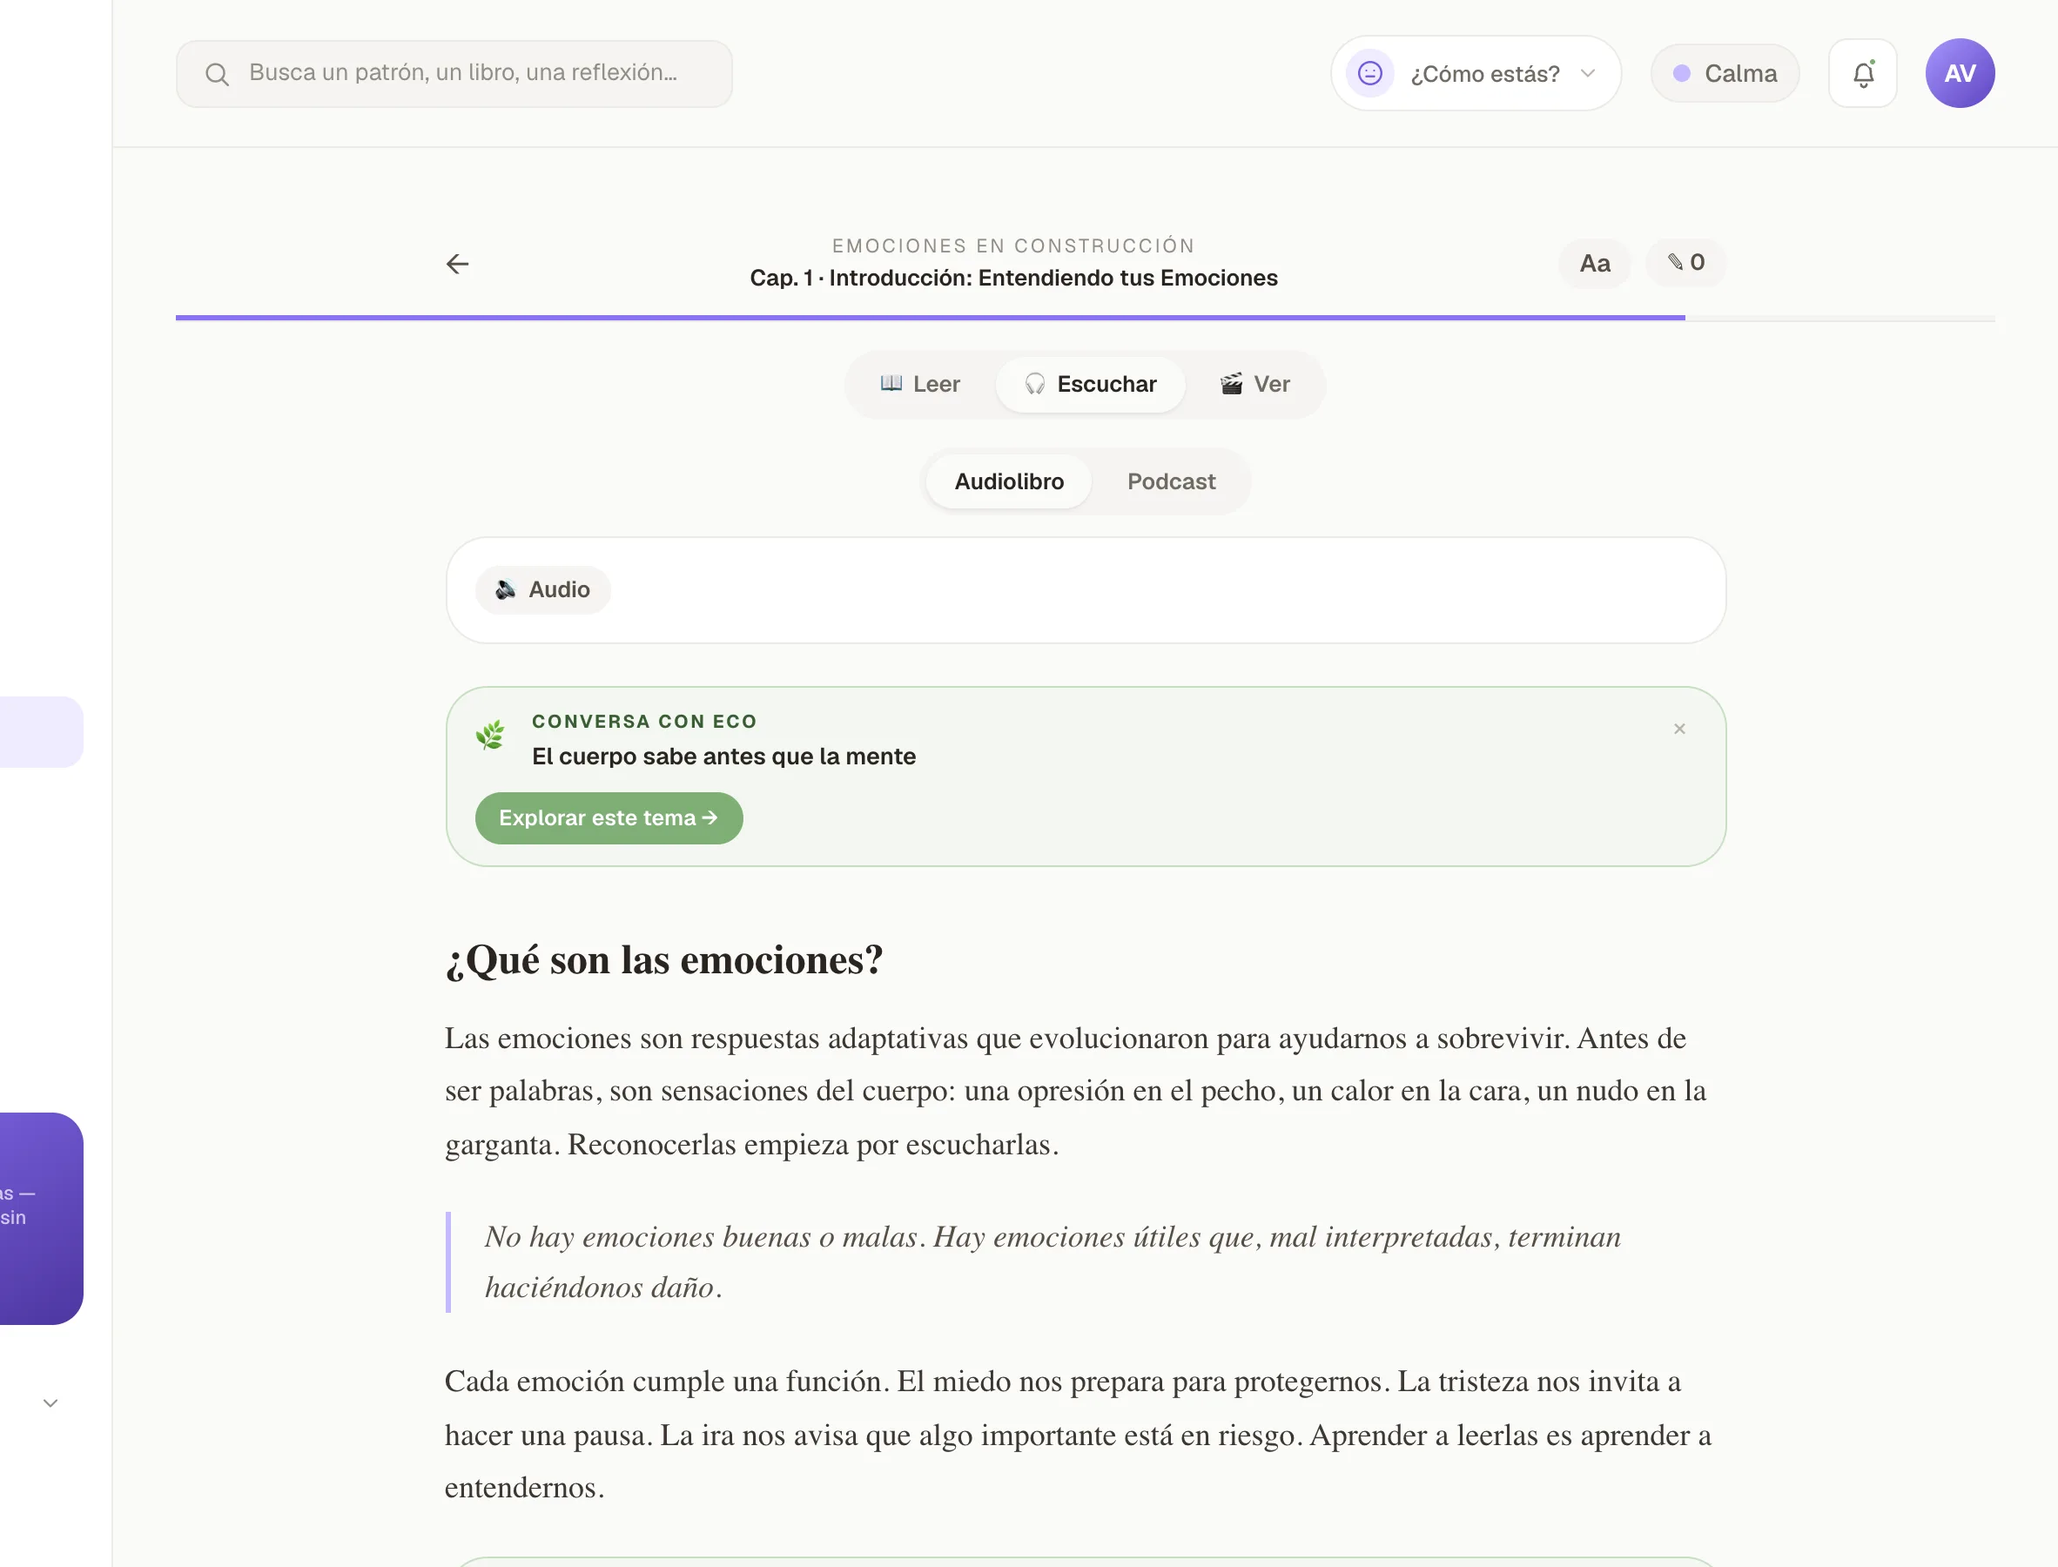
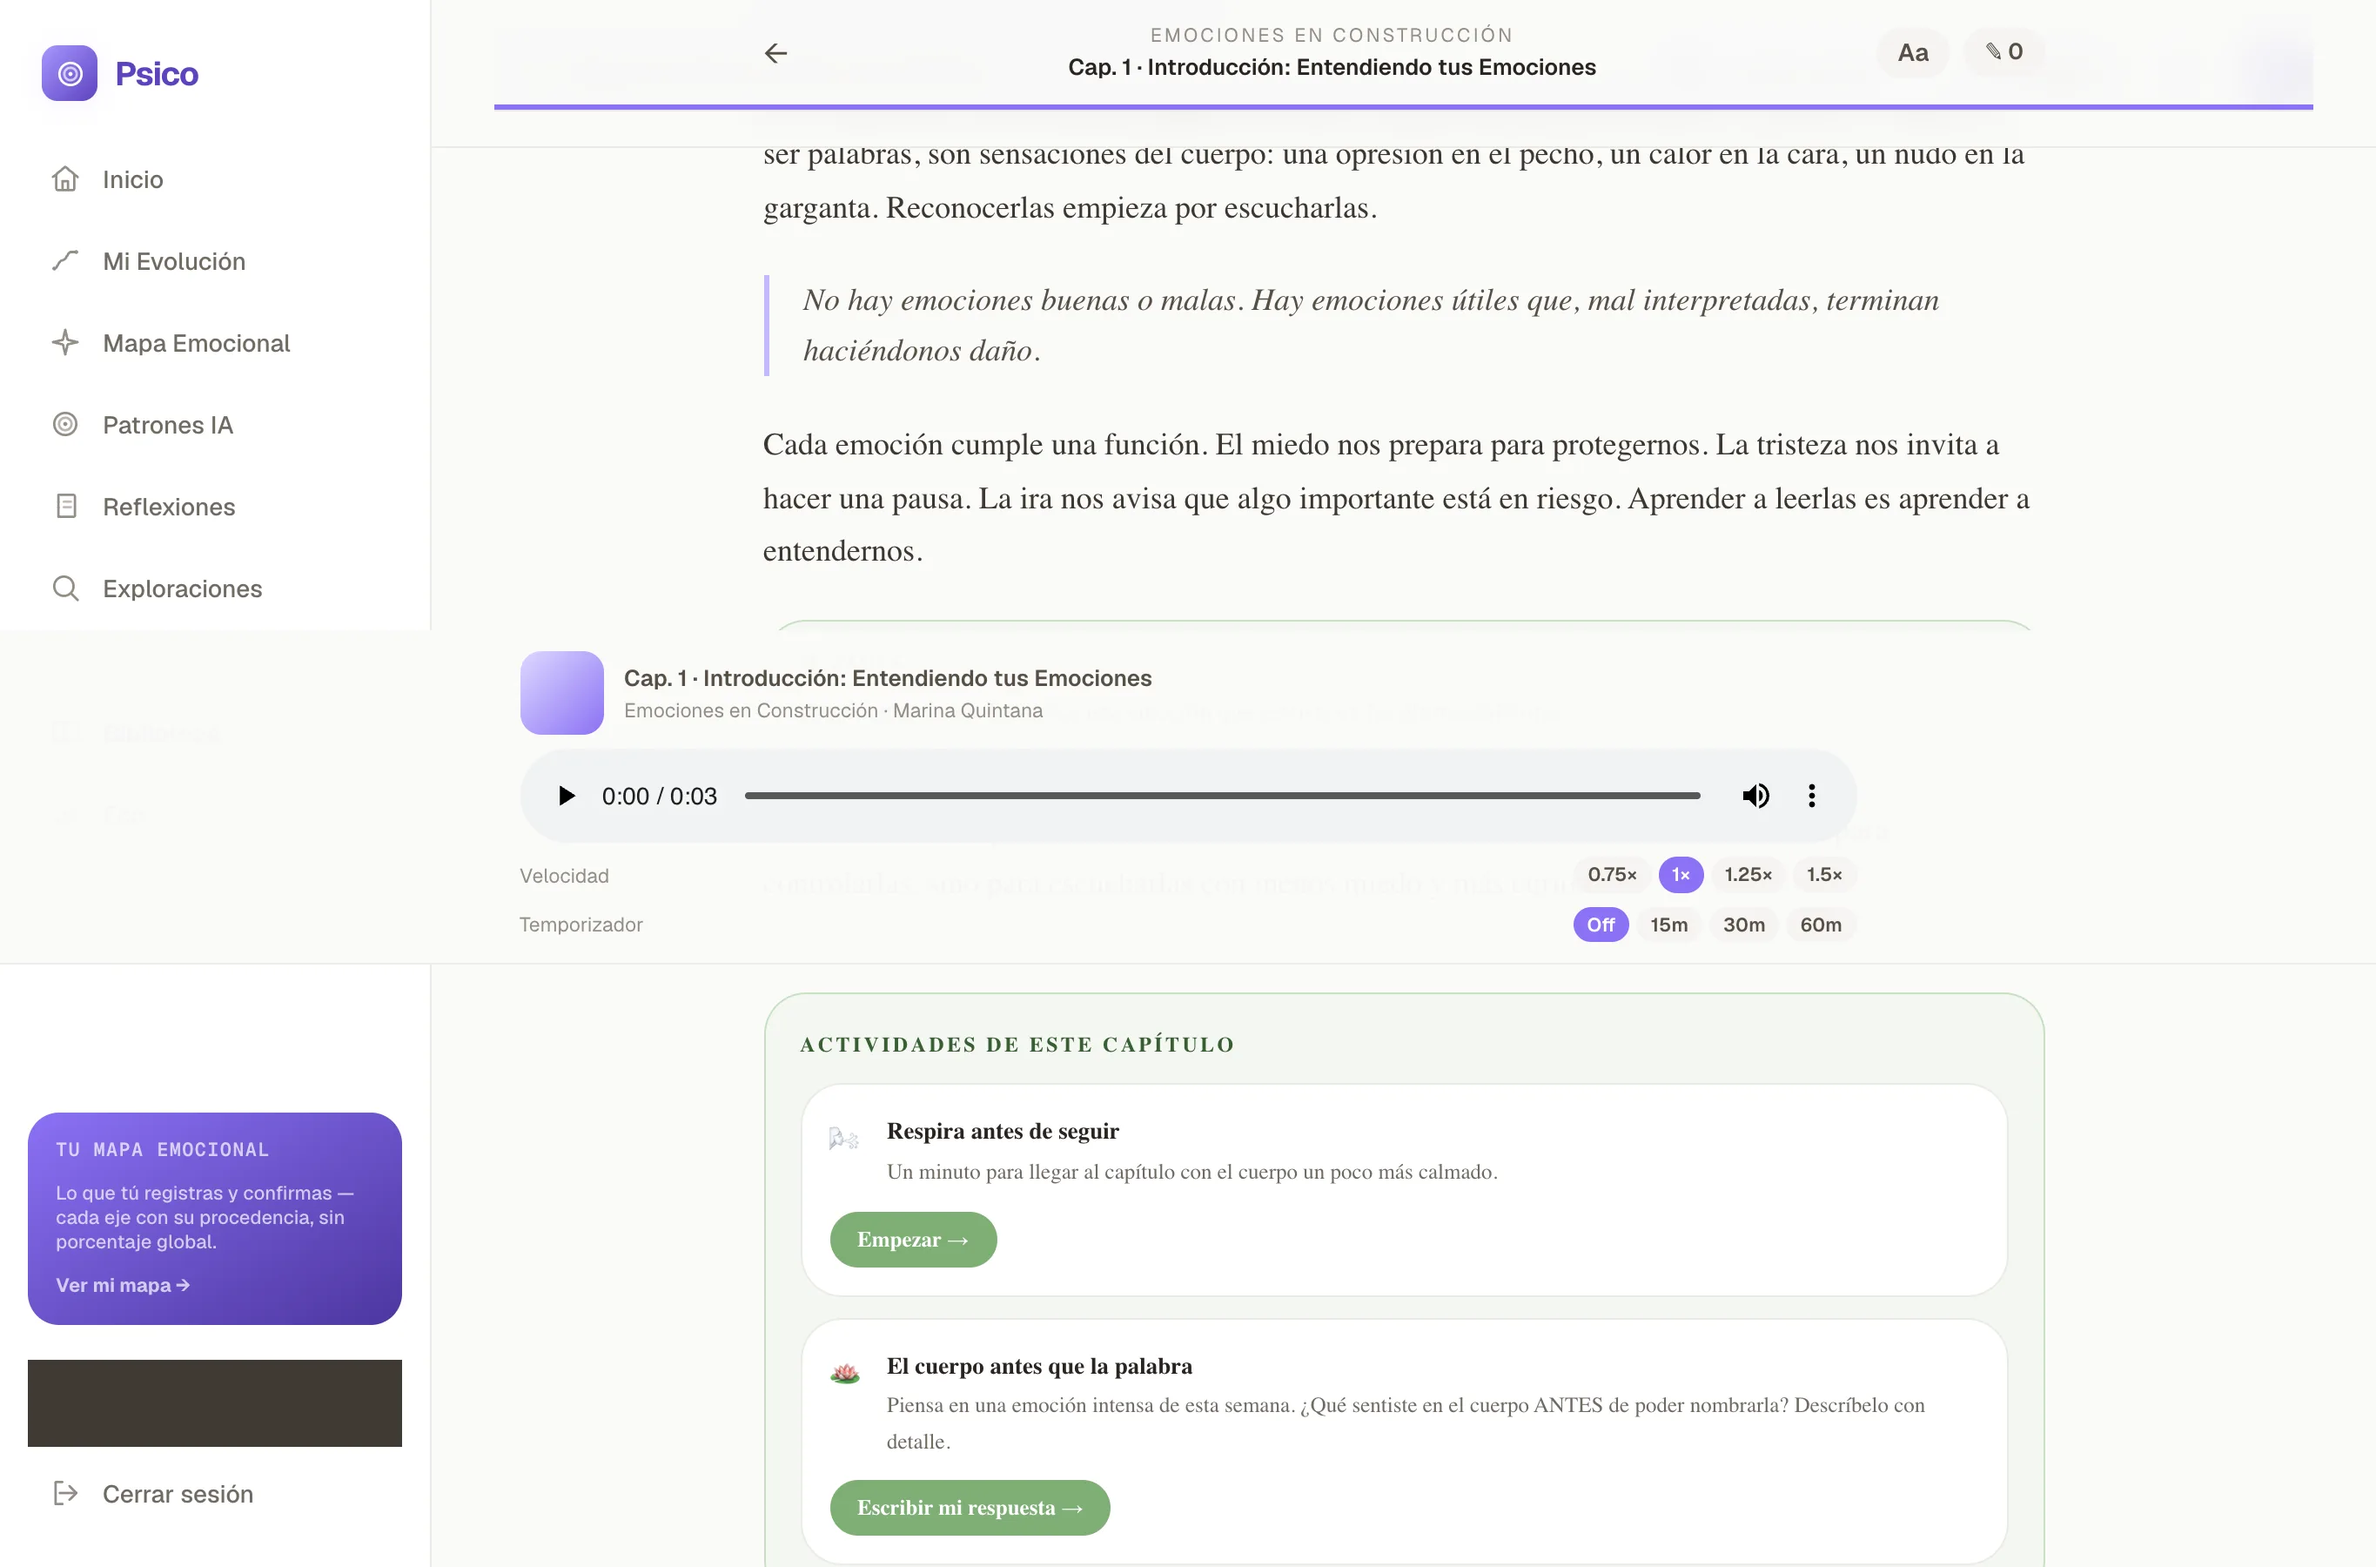
docs(gr2): responsive release gate — six captures from one SHA
Records the responsive gate in the blueprint: what the defect actually was
(shrink-to-fit, not overflow — 390 px measured a 687 px layout viewport), the
drawer that replaces the sidebar below 1023 px, the per-viewport assertion
table, and the 390 px regression sweep over the eight dashboard pages.

The six captures are regenerated from a single tree (189abaa) at full viewport
with no crop. Where the sidebar is in frame the account box is redacted with an
opaque mask instead of cropping the sidebar away; on mobile nothing is masked
because the drawer is parked off-canvas, and the capture script asserts that
before it shoots. sha256 of each file is recorded next to the table.

Two honest corrections to the previous evidence set:

- The claim that the mobile capture "could not be produced" is gone: it exists,
  it is 390 × 844 CSS px, uncropped, with the three modes and both audio formats
  in frame. The expanded player sits below the fold on an 844 px screen, so its
  geometry is reported as a measurement (x=16 → right=374) rather than implied
  by a frame that would have to cut the mode selector.
- 04-reader-transcript is retired. The transcript lives on the video surface,
  which is DRAFT; the media state is server-rendered, so forcing "published"
  client-side produces a hydration mismatch and a dev error indicator in frame.
  Its slot now shows the mobile drawer, which is the heart of this gate and is
[…]

diff --git a/docs/product/guided-reading-v1.md b/docs/product/guided-reading-v1.md
@@ -28,6 +28,9 @@ GR2_VIDEO_PROVIDER=CLOUDFLARE_STREAM
 GR2_OBJECT_STORAGE=CLOUDFLARE_R2
 GR2_MEDIA_CATALOG_STATUS=IMPLEMENTED
 GR2_EXTERNAL_ASSETS_STATUS=PENDING_EDITORIAL_ASSETS
+GR2_RESPONSIVE_RELEASE_GATE_STATUS=IN_REVIEW
+DASHBOARD_RESPONSIVE_SHELL_IMPLEMENTED=true
+READER_MEDIA_MOBILE_IMPLEMENTED=true
 
 GUIDED_READING_DECISION_PACKET_APPROVED=true
 
@@ -1060,36 +1063,121 @@ misma persona terminando el mismo medio produce **una** fila tras recarga, doble
 evento `ended`, segundo dispositivo o retry de red. Una versión nueva del master
 es una actividad nueva, no un duplicado.
 
+### Responsive del shell — puerta de release
+
+```
+GR2_RESPONSIVE_RELEASE_GATE_STATUS=IN_REVIEW
+DASHBOARD_RESPONSIVE_SHELL_IMPLEMENTED=true
+READER_MEDIA_MOBILE_IMPLEMENTED=true
+```
+
+El defecto no era desbordamiento horizontal: era **shrink-to-fit**. `.app` era
+una grilla fija `248px 1fr` sin ninguna media query, así que un teléfono de
+390 px no tenía layout móvil y el navegador caía a escalar la página. Medido en
+Chrome, `window.innerWidth` daba **687** en un viewport de 390, `.side` seguía
+visible a 390/430/768 y `.main` arrancaba en x=248 dejando ~142 px CSS al
+lector. El solape del header, los selectores cortados y la tarjeta de Eco
+«palabra por palabra» eran consecuencias de ese ~0.57 de escala, no defectos
+independientes.
+
+Por debajo de 1023 px la barra lateral pasa a ser un **cajón** fuera de lienzo:
+botón rotulado en el header, `aria-expanded`, el foco entra al panel al abrir,
+Escape lo cierra y devuelve el foco al botón, y el panel aparcado queda `inert`
+(fuera del orden de tabulación). `.main` es `width: 100%; min-width: 0` — se
+quita el piso de contenido mínimo en lugar de tapar el desborde con
+`overflow-x: hidden`.
+
+Ningún control desaparece: los disparadores de ánimo y ambiente pliegan su
+rótulo redundante (ambos ya traen `aria-label` explícito) y mantienen 40 px de
+área táctil. El selector de modo, el selector Audiolibro/Podcast y las cinco
+pestañas de Biblioteca **se desplazan dentro de sí mismos** en vez de ensanchar
+la página. El marco del video declara su relación 16:9 y `width: 100%`, así que
+el iframe no puede imponerle un `min-width` a la columna del lector.
+
+Medido en Chrome a 390 / 430 / 768 / 1024 / 1365 px:
+
+| Aserción                                   | 390 | 430 | 768 | 1024 | 1365 |
+| ------------------------------------------ | --- | --- | --- | ---- | ---- |
+| `document.scrollWidth === innerWidth`      | ✅  | ✅  | ✅  | ✅   | ✅   |
+| `innerWidth` = ancho del dispositivo       | ✅  | ✅  | ✅  | ✅   | ✅   |
+| barra lateral de escritorio oculta         | ✅  | ✅  | ✅  | —    | —    |
+| `.main` dentro del viewport, `min-width:0` | ✅  | ✅  | ✅  | ✅   | ✅   |
+| controles fuera del viewport               | 0   | 0   | 0   | 0    | 0    |
+| controles interceptados por otro elemento  | 0   | 0   | 0   | 0    | 0    |
+
+El test que produce esos números vive en
+[`apps/web/e2e/responsive.mjs`](../../apps/web/e2e/responsive.mjs) (262
+aserciones sobre cajas reales en Chrome, 3 viewports × 6 estados + el cajón).
+Está **fuera** del grafo de `pnpm test` a propósito: CI no provisiona
+navegadores. Se corre con
+`pnpm --filter @psico/web test:responsive` y credenciales por entorno.
+
+Barrido de regresión a 390 px sobre Inicio, Mi Evolución, Mapa Emocional,
+Patrones IA, Reflexiones, Exploraciones, Biblioteca y Eco: las ocho cargan
+(HTTP 200), ninguna desborda, el cajón abre y cierra en todas, y nada queda
+inaccesible detrás de él. Biblioteca necesitó el mismo tratamiento que los
+selectores del lector (sus cinco pestañas medían 443 px de contenido mínimo).
+
 ### Evidencia visual
 
 ```
-GR2_SCREENSHOTS_CREATED=5
-GR2_SCREENSHOTS_PLANNED=6
-GR2_MOBILE_CAPTURE_BLOCKED=DASHBOARD_SHELL_NOT_RESPONSIVE_AT_390
+SCREENSHOTS_CREATED=6
+ALL_SCREENSHOTS_FROM_SINGLE_SHA=true
+MOBILE_SCREENSHOT_CROPPED=false
 ```
 
-Capturas del lector productivo a 1365 × 900 (2×), contra el API real corriendo
-en local con la cuenta de prueba de un entorno de desarrollo. Recortadas a la
-columna de contenido: la barra lateral muestra el correo de la sesión y **nunca**
-entra en una captura commiteada. Sin tokens, sin IDs, sin URLs firmadas.
+Las seis capturas salen del **mismo árbol** (`189abaa`), contra el API real en
+local y una cuenta sintética de desarrollo. Son de **viewport completo**: no hay
+recorte. Donde la barra lateral aparece, el bloque de cuenta va **tapado con una
+máscara opaca** — el layout completo queda a la vista y la dirección no; en
+móvil no hay máscara porque el cajón está aparcado fuera de lienzo, y el script
+lo comprueba (`accountRight = -17`) antes de disparar en vez de confiar.
 
-| #   | Vista                                | Captura                                                                                                 |
-| --- | ------------------------------------ | ------------------------------------------------------------------------------------------------------- |
-| 1   | Escuchar · audiolibro                | [01-reader-listen-audiobook.webp](assets/gr2-media/01-reader-listen-audiobook.webp)                     |
-| 2   | Escuchar · podcast en producción     | [02-reader-listen-podcast-coming-soon.webp](assets/gr2-media/02-reader-listen-podcast-coming-soon.webp) |
-| 3   | Ver · videoexplicación en producción | [03-reader-watch-video.webp](assets/gr2-media/03-reader-watch-video.webp)                               |
-| 4   | Escuchar · podcast con transcripción | [04-reader-transcript.webp](assets/gr2-media/04-reader-transcript.webp)                                 |
-| 5   | Mi Evolución · actividad             | [05-evolution-learning-activity.webp](assets/gr2-media/05-evolution-learning-activity.webp)             |
+| #   | Vista                                         | Viewport   | Captura                                                                                                 |
+| --- | --------------------------------------------- | ---------- | ------------------------------------------------------------------------------------------------------- |
+| 1   | Escuchar · audiolibro con reproductor abierto | 1365 × 900 | [01-reader-listen-audiobook.webp](assets/gr2-media/01-reader-listen-audiobook.webp)                     |
+| 2   | Escuchar · podcast en producción              | 1365 × 900 | [02-reader-listen-podcast-coming-soon.webp](assets/gr2-media/02-reader-listen-podcast-coming-soon.webp) |
+| 3   | Ver · videoexplicación en producción          | 1365 × 900 | [03-reader-watch-video.webp](assets/gr2-media/03-reader-watch-video.webp)                               |
+| 4   | Cajón de navegación móvil abierto             | 390 × 844  | [04-dashboard-mobile-drawer.webp](assets/gr2-media/04-dashboard-mobile-drawer.webp)                     |
+| 5   | Mi Evolución · actividad de aprendizaje       | 1365 × 900 | [05-evolution-learning-activity.webp](assets/gr2-media/05-evolution-learning-activity.webp)             |
+| 6   | Lector multimedia en móvil                    | 390 × 844  | [06-reader-media-mobile.webp](assets/gr2-media/06-reader-media-mobile.webp)                             |
 
-La captura 4 usa una **fixture segura** interceptada en el navegador para
-publicar el podcast (sin token, sin UID, sin URL firmada real), porque el master
-todavía no existe. Las otras cuatro son el estado real del código.
+```
+sha256
+5ebddb818a6c3da3710fe9a6007171c3eb5db631b4d38977527823d1b0ba236f  01-reader-listen-audiobook.webp
+f00f8c5027dd1254cf936e93fb55fa52cdb2e48d27b766515ec649691f9c4a85  02-reader-listen-podcast-coming-soon.webp
+c289a4cd3aaadb3c4cc1676353734ea4ab5d4a7a7b6f879291e55012f3656962  03-reader-watch-video.webp
+1b46edf4c90e562b5f2a9345b81097408c19816e95a7ce3c381486505aa72775  04-dashboard-mobile-drawer.webp
+204c67a66ba3e108a9fa66b8597cbf1bab5c5d32c787766a06b72b7096d825aa  05-evolution-learning-activity.webp
+d729c9914708904a3bb811a63419d84241304e18f9a5360d960f94243ae5a9f7  06-reader-media-mobile.webp
+```
 
-La sexta captura —el lector multimedia en móvil— **no se produjo**. A 390 px el
-shell del dashboard no cambia a layout móvil en este entorno: la barra lateral se
-superpone al lector y el correo de la sesión quedaría en cuadro. Preferimos no
-publicar una captura engañosa ni una con datos personales; la superficie móvil
-del selector queda por verificar en su propio pase.
+Ruta del lector en 1, 2, 3, 4 y 6:
+`/dashboard/biblioteca/emociones-en-construccion/lector/1` (sin parámetros de
+consulta). En 5: `/dashboard/evolucion`.
+
+La captura 6 es el lector en Escuchar a 390 × 844 px CSS, sin recortar: sin
+barra lateral de escritorio, con el botón de navegación, los tres modos
+(Leer · Escuchar · Ver), los dos formatos (Audiolibro · Podcast) y la tarjeta de
+Eco a ancho completo. El reproductor expandido queda por debajo del pliegue en
+una pantalla de 844 px —el header del capítulo es sticky y tapa la fila de modos
+en cuanto se hace scroll, así que ningún cuadro de 390 × 844 contiene ambas
+cosas— pero su geometría **sí** está medida: `x=16 → derecha=374` dentro de un
+viewport de 390, con las filas de velocidad y temporizador en una sola línea.
+
+La captura 1 alimenta el reproductor con una **fixture local** (un WAV silencioso
+de 3 s servido desde localhost) porque el master del capítulo no está en el
+almacenamiento local: sin URL de proveedor, sin UID, sin token, sin URL firmada.
+Las otras cinco son el estado real del código.
+
+**Lo que no se pudo fotografiar y por qué.** La pantalla de transcripción vive en
+la superficie de video, que sigue en `DRAFT`. El estado de multimedia se
+renderiza en el servidor, así que forzar «publicado» sólo del lado del cliente
+produce un error de hidratación —el HTML del servidor dice «en producción» y el
+cliente dice lo contrario—. No publicamos una captura con un indicador de error
+del entorno de desarrollo en cuadro; la captura 4 pasó a ser el cajón móvil, que
+es el corazón de esta puerta y es real de punta a punta. La transcripción se
+fotografía cuando exista el master.
 
 ### Lo que GR-2 NO implementó
 
